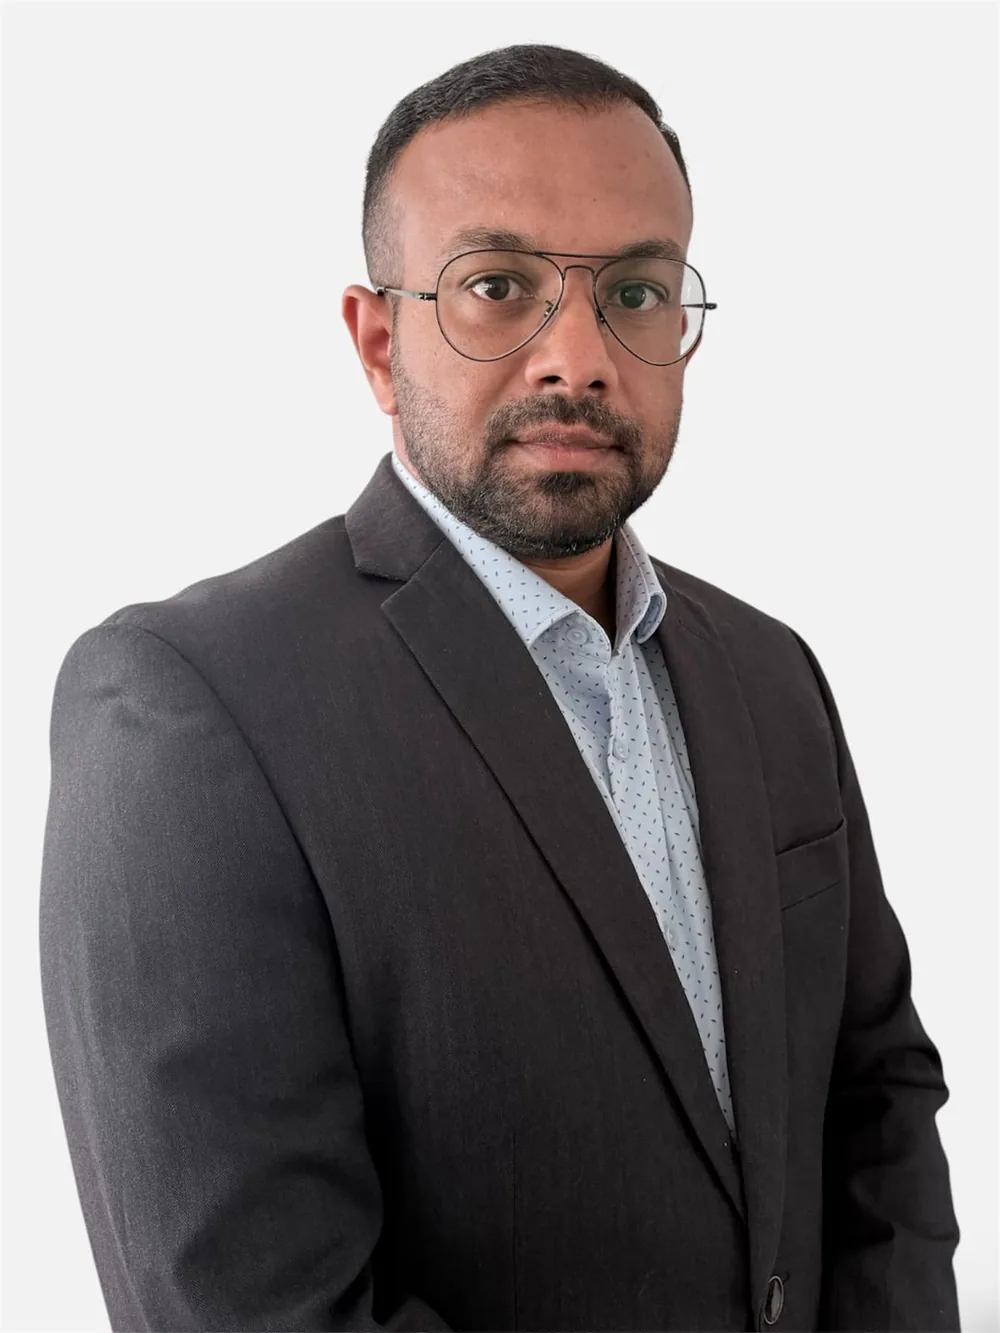
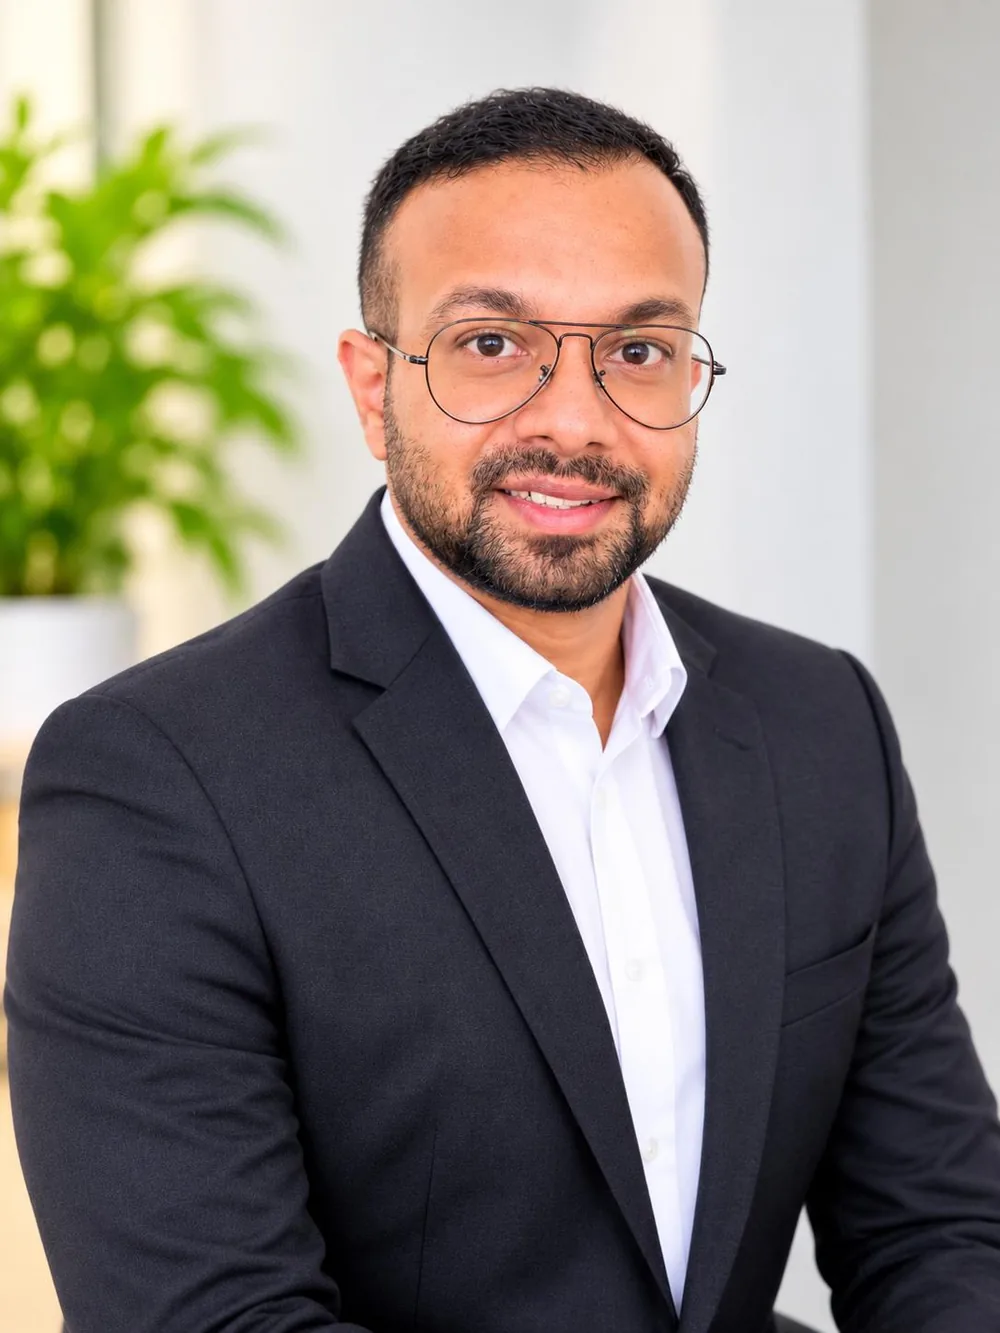
feat: update Tisson Thomas portrait asset version in team section

diff --git a/Team.dc.html b/Team.dc.html
@@ -623,7 +623,7 @@ height="0" width="0" style="display:none;visibility:hidden"></iframe></noscript>
 <section style="padding:84px 24px;background:#F6F8FB">
   <div class="team-row team-row--flip">
     <div class="team-photo">
-      <img src="/assets/team/tisson-thomas-portrait.webp?v=1" alt="Tisson Thomas, BDM/Client Support at Wealthify" width="1000" height="1333" loading="lazy" decoding="async">
+      <img src="/assets/team/tisson-thomas-portrait.webp?v=2" alt="Tisson Thomas, BDM/Client Support at Wealthify" width="1000" height="1333" loading="lazy" decoding="async">
     </div>
     <div>
       <div style="font-size:var(--text-micro);font-weight:700;text-transform:uppercase;letter-spacing:.14em;color:#16C172;margin-bottom:12px">BDM/Client Support · New Zealand Wide</div>
